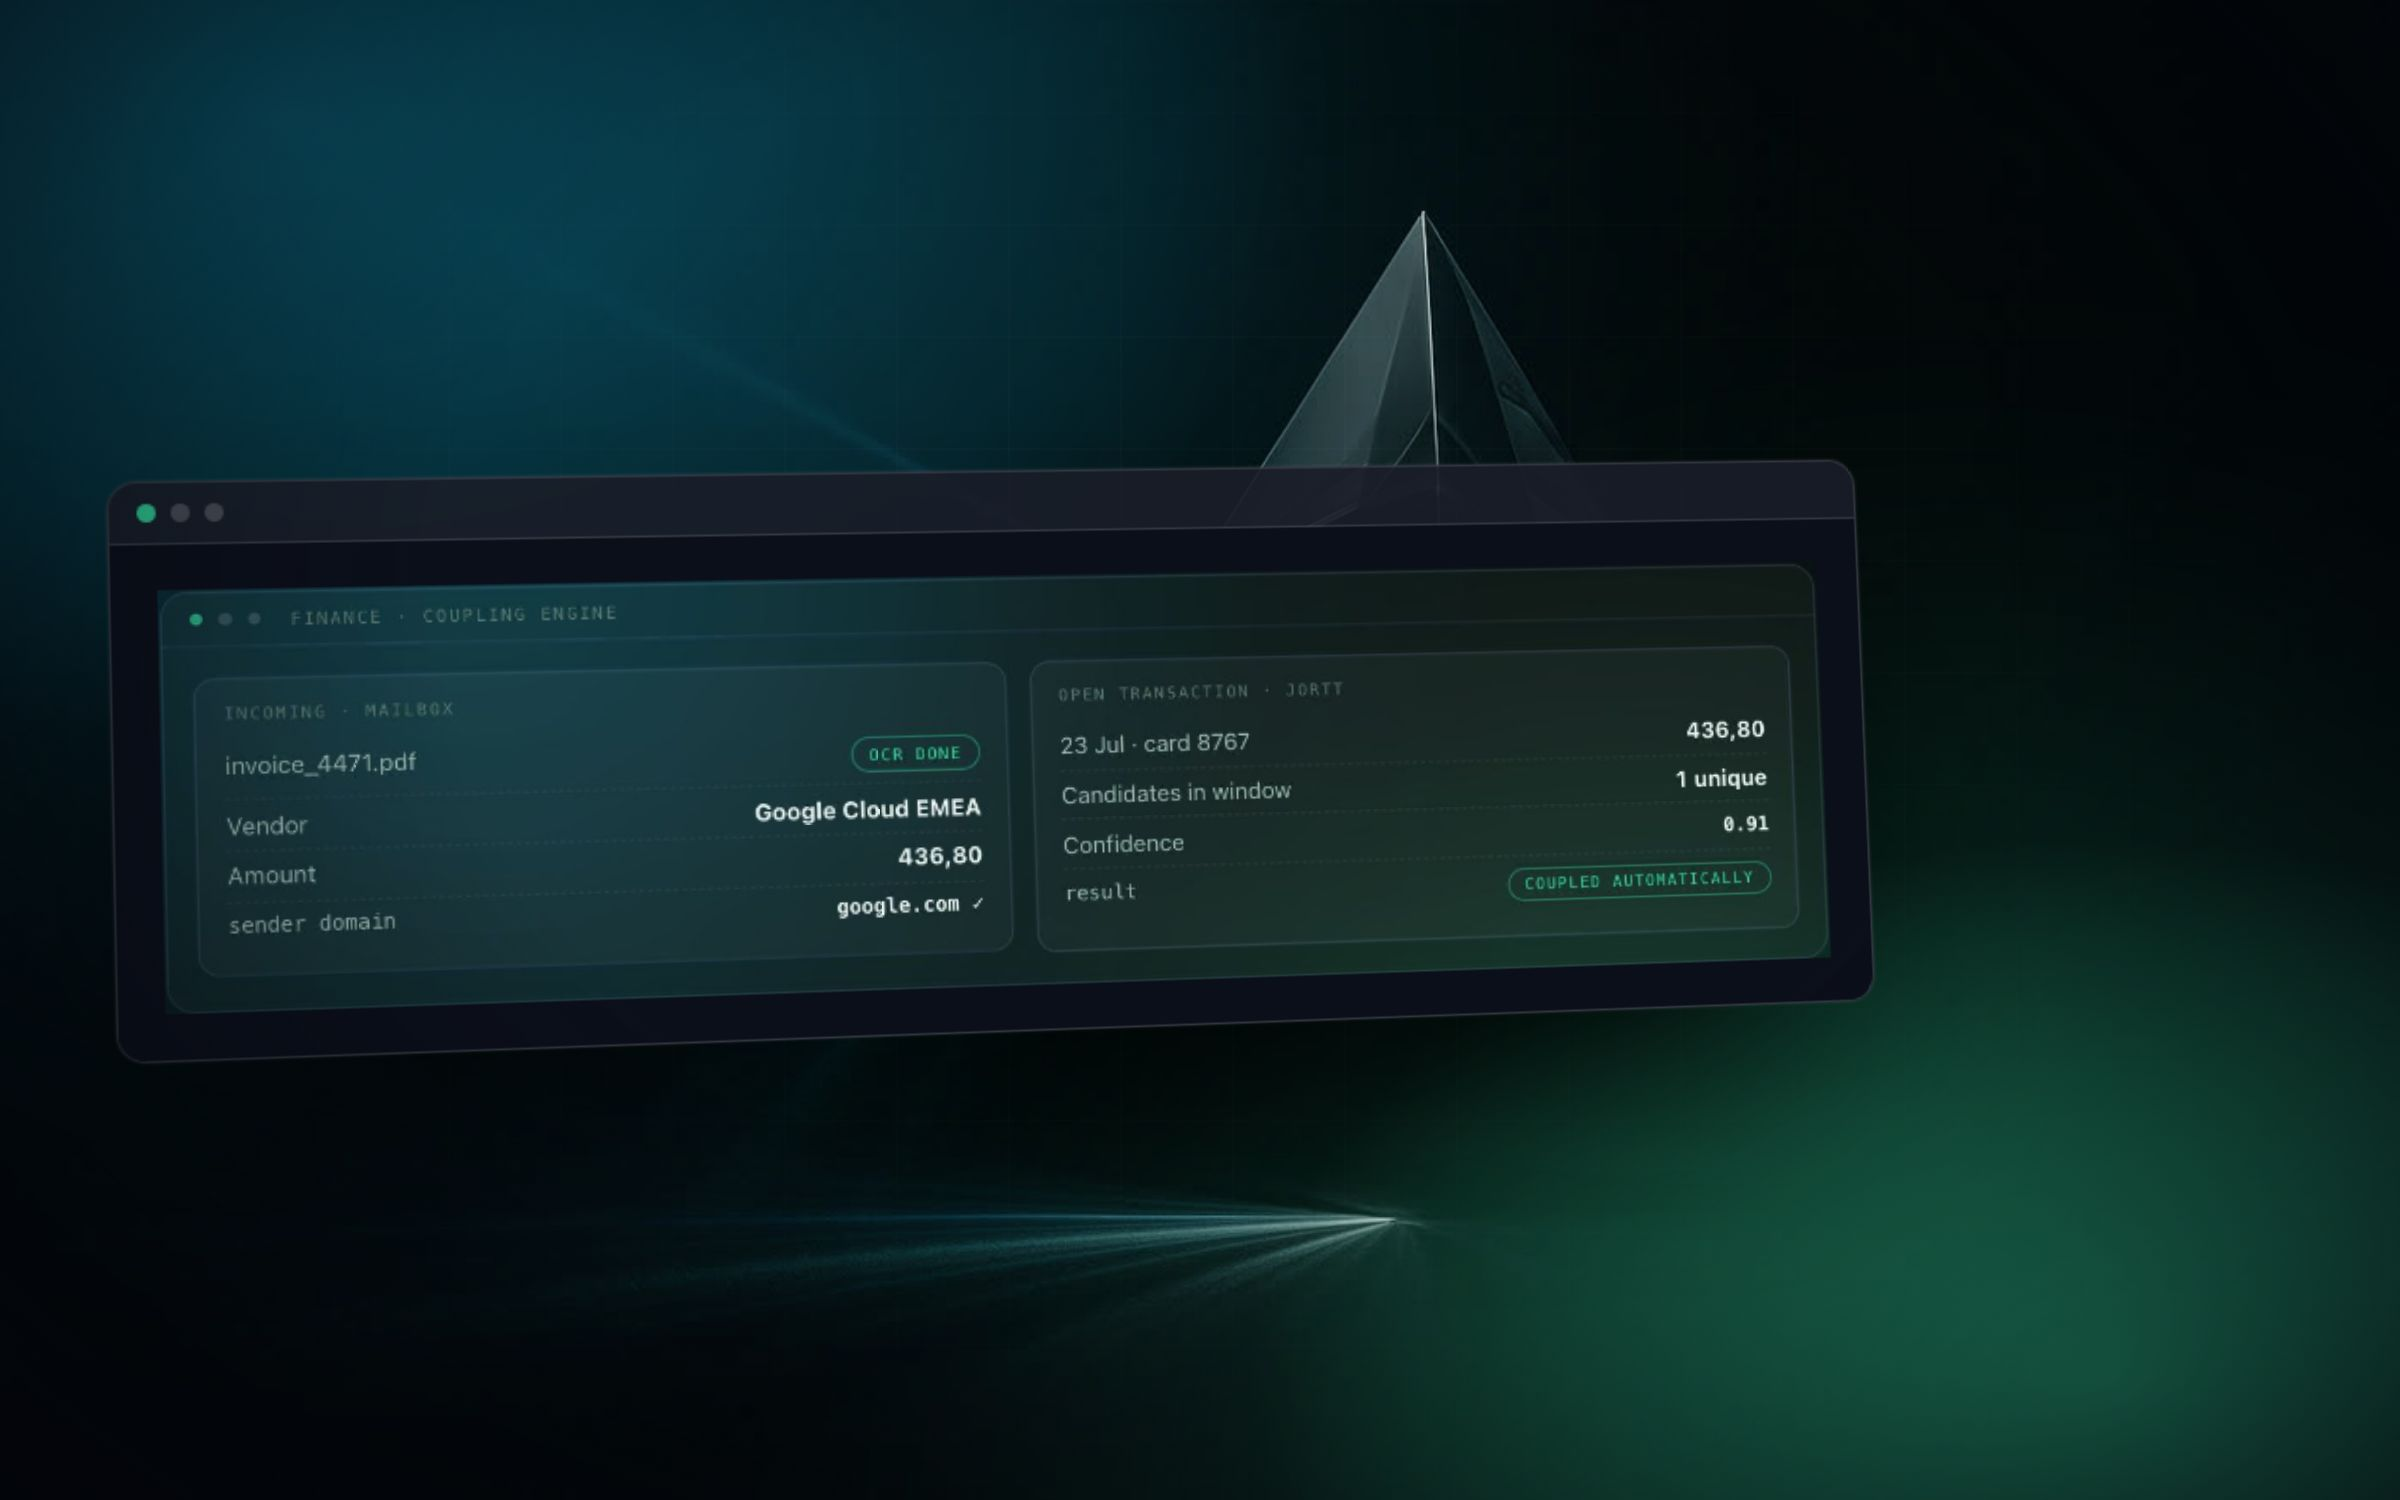
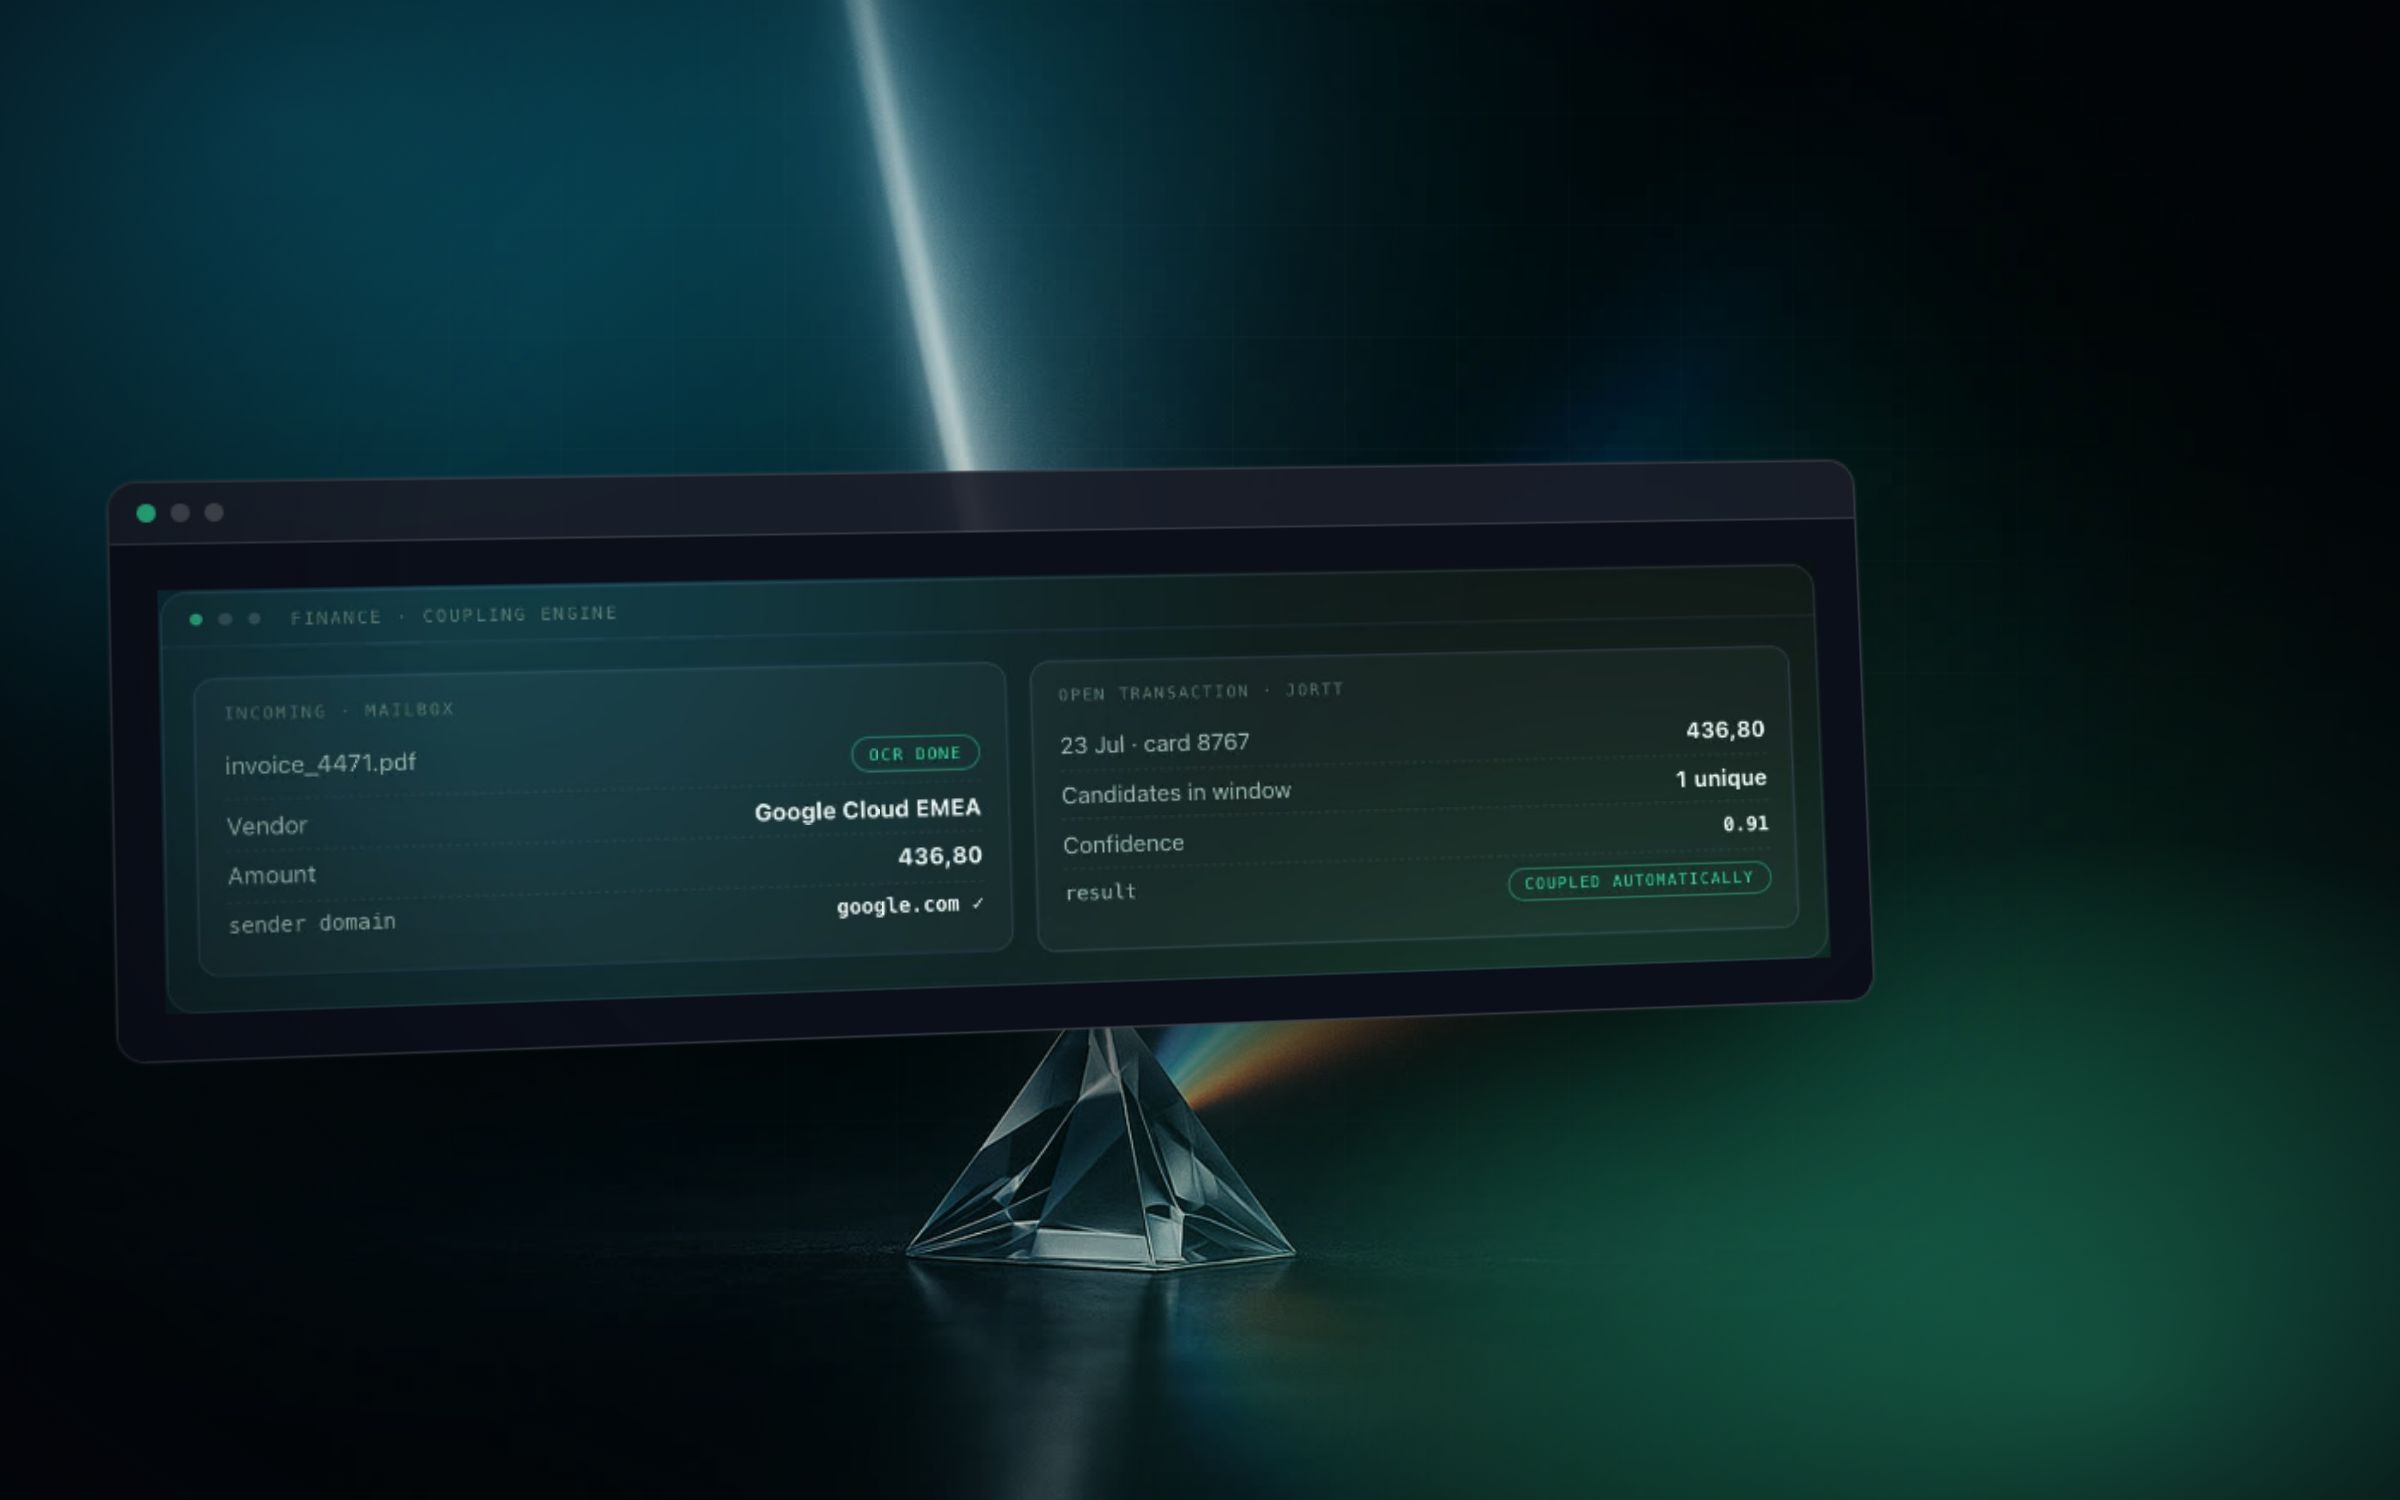
feat: prism everywhere, and an image on every why slide
The prism is the locked image language, so all fourteen covers and the hero
now sit on prism variants instead of four different styles.

Every why slide carries its own generated image in that project's colours:
Ariel a violet prism trailing brush strokes, Sentinel a cold radar arc with
one warm alert inside it, Fionie a small light growing along a curve. All
abstract on purpose. Nothing that resembles an interface is generated.

diff --git a/src/components/Deck.tsx b/src/components/Deck.tsx
@@ -153,12 +153,20 @@ export function Deck({
       {/* 04 waarom */}
       <section className="slide">
         <div className="eyebrow blue">{num()} · why</div>
-        <h2 className="reveal">
-          <Rich text={p.why.title} as="grad" />
-        </h2>
-        <p className="lead reveal d1">
-          <Rich text={p.why.lead} />
-        </p>
+        <div className="whygrid">
+          <div>
+            <h2 className="reveal">
+              <Rich text={p.why.title} as="grad" />
+            </h2>
+            <p className="lead reveal d1">
+              <Rich text={p.why.lead} />
+            </p>
+          </div>
+          <figure className="whyart reveal d2">
+            {/* eslint-disable-next-line @next/next/no-img-element */}
+            <img src={`/shots/why-${p.slug}.jpg`} alt="" loading="lazy" width={1200} height={1200} />
+          </figure>
+        </div>
       </section>
 
       {/* 05 quote */}

diff --git a/src/app/deck.css b/src/app/deck.css
@@ -1047,3 +1047,35 @@
   cursor: pointer;
   padding: 0.1rem 0.3rem;
 }
+
+/* The why slide carries its own image: generated art in the project's colours,
+   abstract on purpose. Never a picture of an interface. */
+.whygrid {
+  display: grid;
+  grid-template-columns: minmax(0, 1.15fr) minmax(0, 0.85fr);
+  gap: clamp(1.5rem, 4vw, 3.5rem);
+  align-items: center;
+}
+.whyart {
+  margin: 0;
+  border-radius: 18px;
+  overflow: hidden;
+  border: 1px solid var(--cardline);
+  line-height: 0;
+  box-shadow: 0 40px 90px -50px rgba(0, 0, 0, 0.9);
+}
+.whyart img {
+  display: block;
+  width: 100%;
+  height: auto;
+  max-height: 58vh;
+  object-fit: cover;
+}
+@media (max-width: 860px) {
+  .whygrid {
+    grid-template-columns: 1fr;
+  }
+  .whyart img {
+    max-height: 30vh;
+  }
+}
